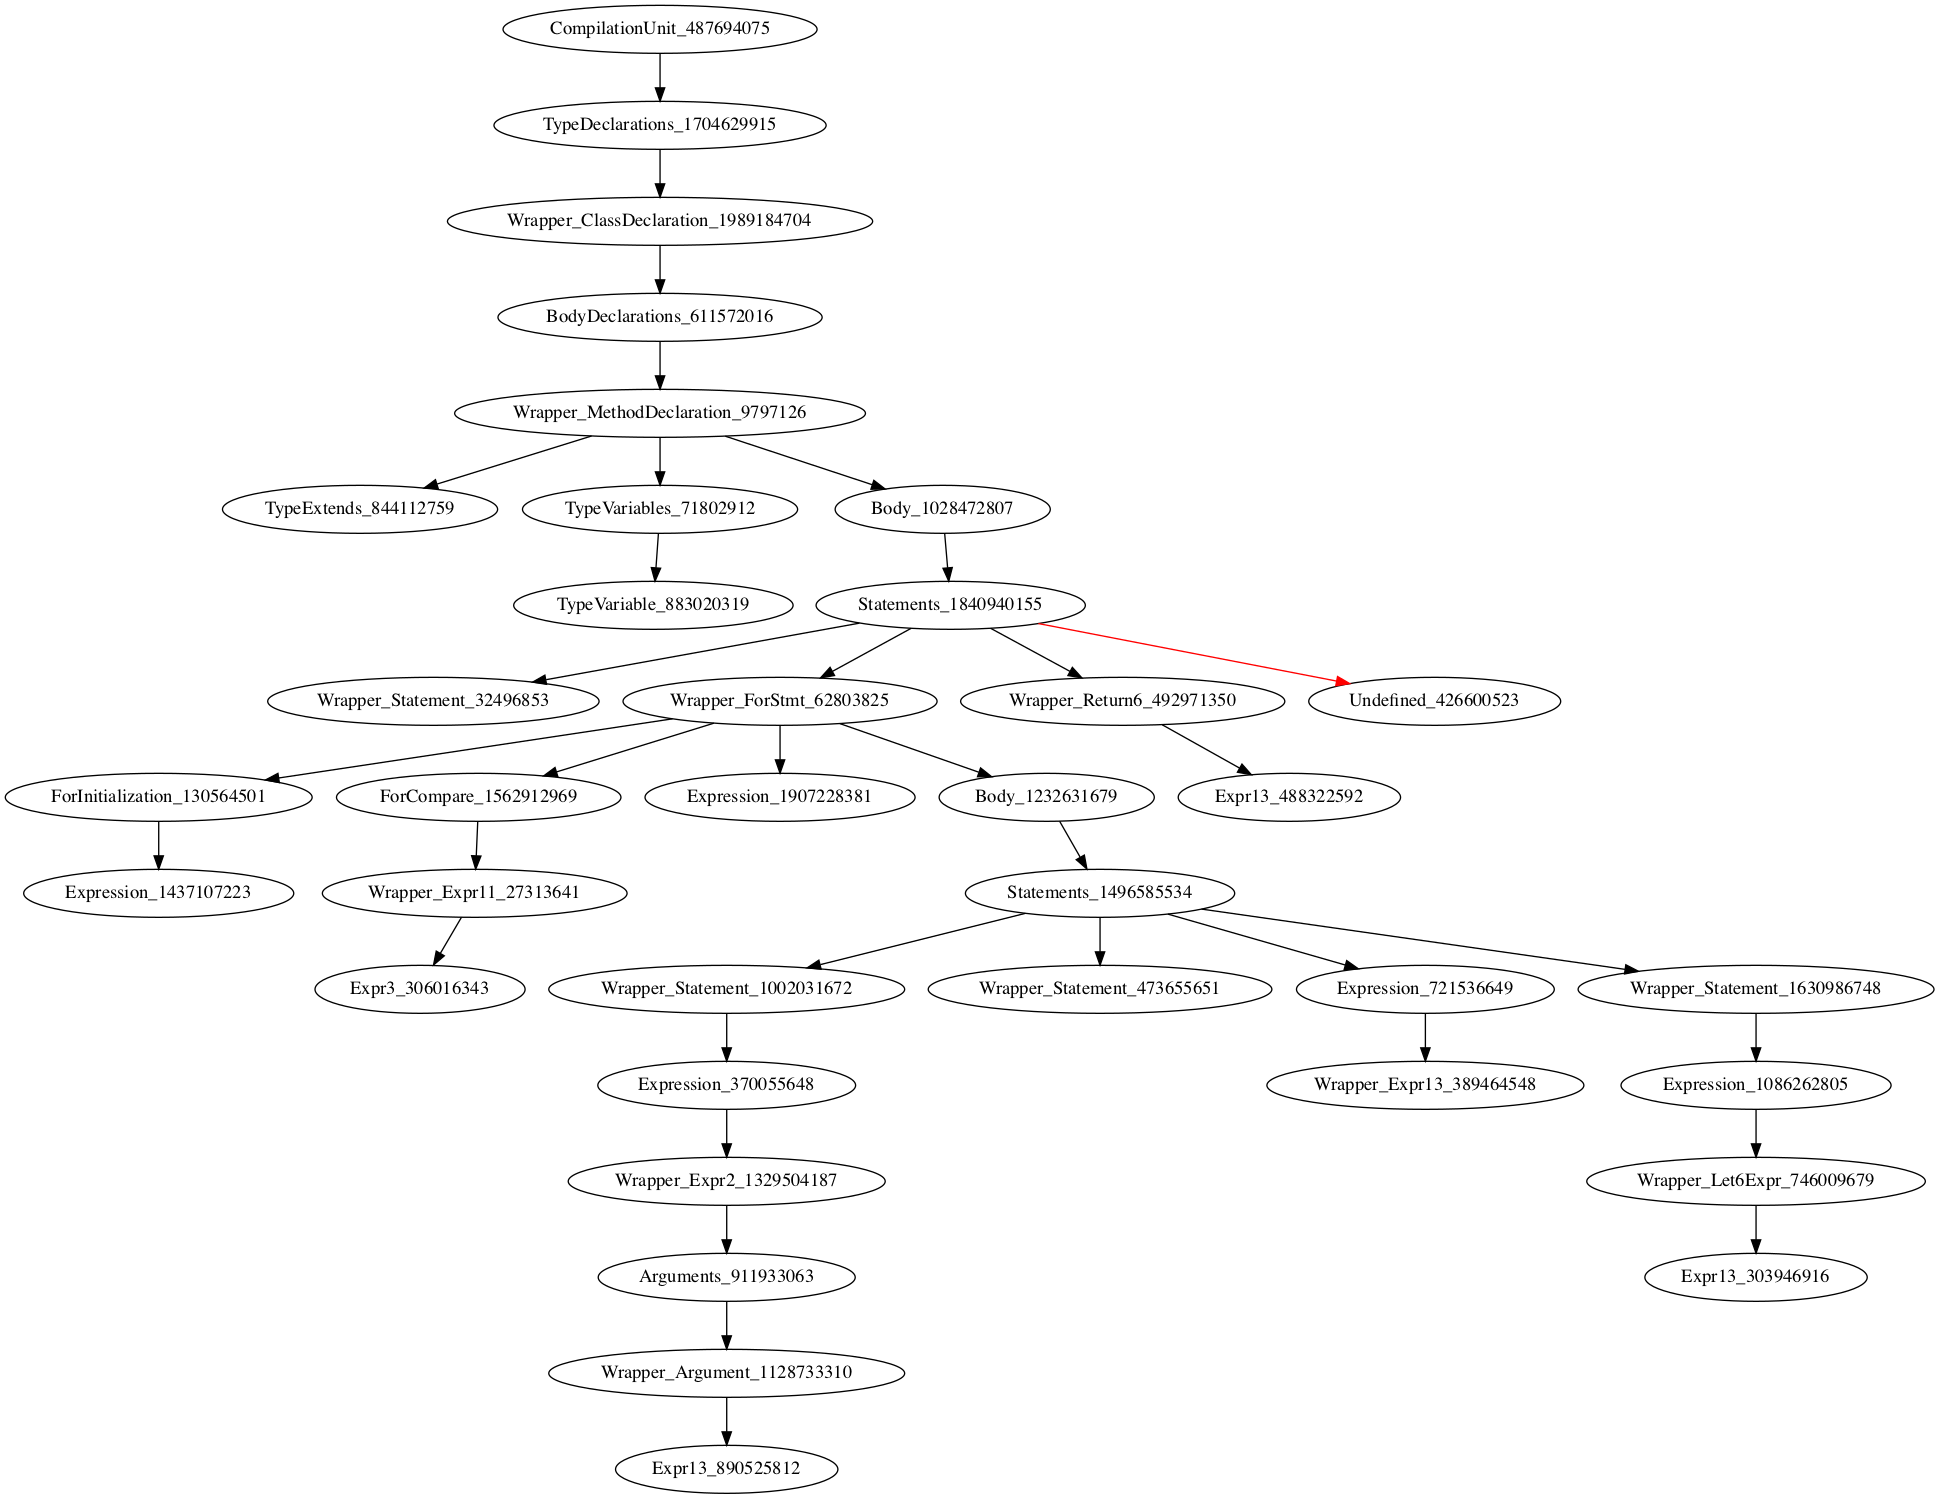
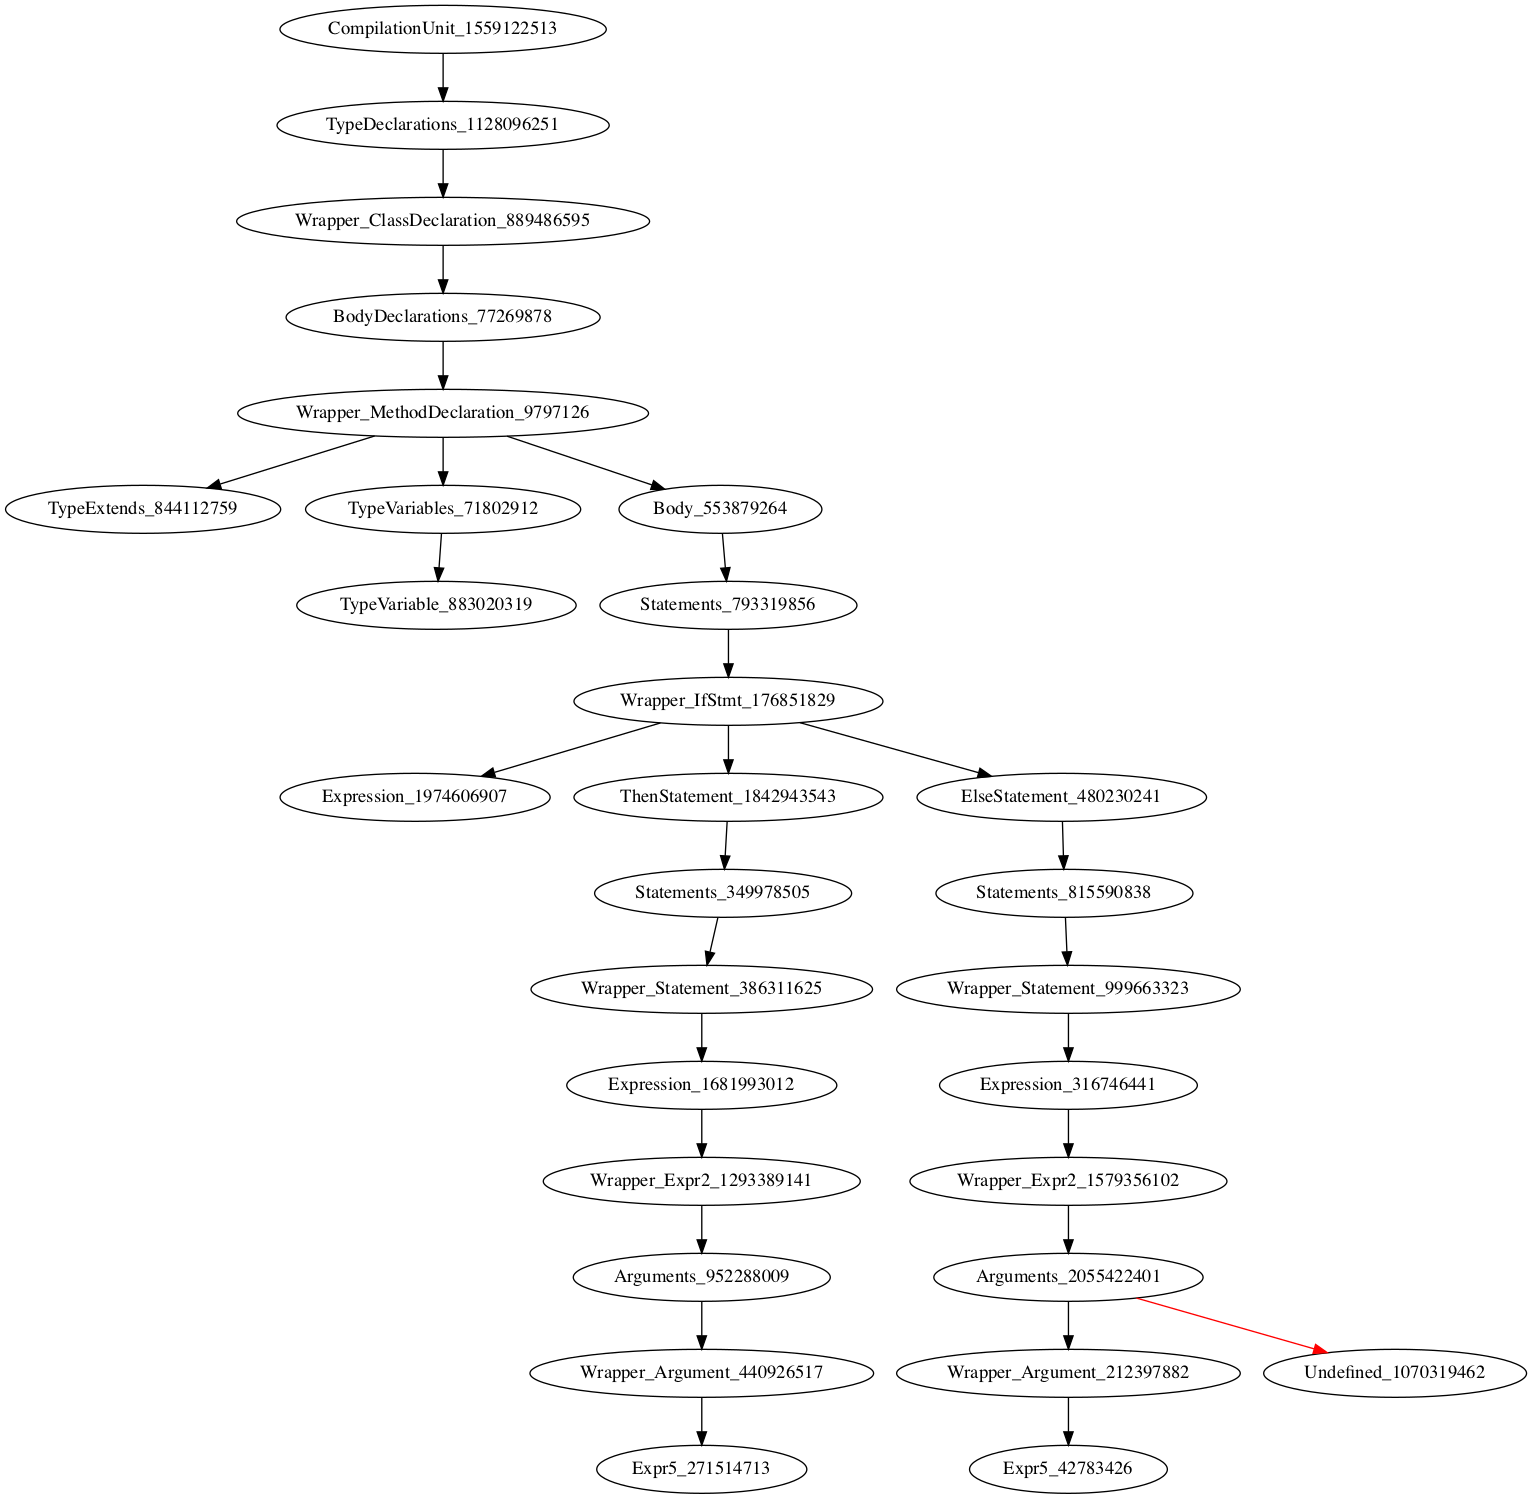
[fix] bug generation for if generation inside method declaration

diff --git a/voice2code/src/main/java/cn/edu/lyun/kexin/text2code/Text2CompilationUnit.java b/voice2code/src/main/java/cn/edu/lyun/kexin/text2code/Text2CompilationUnit.java
@@ -114,7 +114,8 @@ public class Text2CompilationUnit {
 				HoleNode holeNodeChild = new HoleNode(HoleType.Undefined, true);
 				currentHole.addChild(holeNodeChild);
 
-			} else if (parentHoleType.equals(HoleType.ElseStatement)) {
+			} else if (parentHoleType.equals(HoleType.ElseStatement) || (parentHole.getHoleTypeOfOptionsIfOnlyOne() != null
+					&& parentHole.getHoleTypeOfOptionsIfOnlyOne().equals(HoleType.IfStmt))) {
 				// default else case
 				BlockStmt blockStmt = new BlockStmt();
 				IfStmt ifStmt = (IfStmt) parent.getLeft();
@@ -418,7 +419,7 @@ public class Text2CompilationUnit {
 				holeNode = new HoleNode(HoleType.Expression, true);
 				currentHole.addChild(holeNode);
 			} else if (parentHoleType.equals(HoleType.MethodDeclaration)) {
-				MethodDeclaration mNode = (MethodDeclaration) parentAndIndex.getFirst();
+				MethodDeclaration mNode = (MethodDeclaration) parent.getLeft();
 				Optional<BlockStmt> optionalBody = mNode.getBody();
 				currentHole.setIsHole(false);
 				currentHole.setHoleType(HoleType.Body);
@@ -640,22 +641,39 @@ public class Text2CompilationUnit {
 					blockStmt.setStatements(statements);
 					whileStmt.setBody(blockStmt);
 
-					currentHole.setHoleType(HoleType.Body);
-					currentHole.setIsHole(false);
+					currentHole.set(HoleType.Body, false);
 
-					HoleNode anotherCurrentHole = new HoleNode();
-					anotherCurrentHole.setHoleType(HoleType.Statements);
-					anotherCurrentHole.setIsHole(false);
+					HoleNode anotherCurrentHole = new HoleNode(HoleType.Statements, false);
 					currentHole.addChild(anotherCurrentHole);
 
 					HoleNode childNode = new HoleNode(HoleType.Wrapper, false);
 					childNode.setHoleTypeOptionsOfOnlyOne(HoleType.IfStmt);
 					anotherCurrentHole.addChild(childNode);
 
-					HoleNode newHole = new HoleNode(HoleType.Expression, true);
-					childNode.addChild(newHole);
+					childNode.addChild(new HoleNode());
 				} else {
 					// TODO
+				}
+			} else if (parentNodeClassStr != null && parentNodeClassStr.equals("MethodDeclaration")) {
+				MethodDeclaration mNode = (MethodDeclaration) parent.getLeft();
+				Optional<BlockStmt> optionalBody = mNode.getBody();
+				currentHole.setIsHole(false);
+				currentHole.setHoleType(HoleType.Body);
+				HoleNode anotherCurrentHole = new HoleNode();
+				currentHole.addChild(anotherCurrentHole);
+				BlockStmt blockStmt = optionalBody.get();
+				NodeList<Statement> statements = blockStmt.getStatements();
+				if (statements.size() == 0) {
+					statements.add((Statement) node);
+
+					anotherCurrentHole.set(HoleType.Statements, false);
+
+					HoleNode childNode = new HoleNode(HoleType.Wrapper, false);
+					childNode.setHoleTypeOptionsOfOnlyOne(HoleType.IfStmt);
+					anotherCurrentHole.addChild(childNode);
+
+					HoleNode newHole = new HoleNode();
+					childNode.addChild(newHole);
 				}
 			}
 			break;
@@ -2886,6 +2904,8 @@ public class Text2CompilationUnit {
 			HoleNode holeNodeChildChild = new HoleNode(HoleType.Undefined, true);
 			stmtsHole.addChild(holeNodeChildChild);
 		} else if (thenStmtStr.equals("BlockStmt")) {
+			// Jump out of current if statement.
+
 		}
 	}
 

diff --git a/voice2code/src/test/java/cn/edu/lyun/kexin/test/text2code/RunTest.java b/voice2code/src/test/java/cn/edu/lyun/kexin/test/text2code/RunTest.java
@@ -10,7 +10,7 @@ public class RunTest {
 	public static void main(String[] args) throws IOException {
 		String dir = System.getProperty("user.dir");
 		Text2CompilationUnit text2CompilationUnit = new Text2CompilationUnit();
-		String filePath = dir + "/voice2code/src/test/java/cn/edu/lyun/kexin/test/text2code/testcases/ForLoop.voiceJava";
+		String filePath = dir + "/voice2code/src/test/java/cn/edu/lyun/kexin/test/text2code/testcases/If.voiceJava";
 		BufferedReader br = new BufferedReader(new FileReader(filePath));
 		for (String line; (line = br.readLine()) != null;) {
 			text2CompilationUnit.generate(line);

diff --git a/voice2code/src/main/java/cn/edu/lyun/kexin/text2code/astskeleton/HoleAST.java b/voice2code/src/main/java/cn/edu/lyun/kexin/text2code/astskeleton/HoleAST.java
@@ -165,7 +165,7 @@ public class HoleAST {
 	public boolean hashOnlyOneChild(HoleNode holeNode) {
 		Set<HoleType> set = new HashSet<HoleType>(Arrays.asList(HoleType.ImportDeclaration, HoleType.TypeDeclaration,
 				HoleType.Expression, HoleType.TypeVariable, HoleType.Body, HoleType.Statement, HoleType.VariableInitializer,
-				HoleType.VariableDeclarator, HoleType.Expr1, HoleType.Expr2));
+				HoleType.VariableDeclarator, HoleType.Expr1, HoleType.Expr2, HoleType.ThenStatement));
 		return holeNode.getNonUndefinedChildListSize() == 1 && set.contains(holeNode.getHoleType());
 	}
 

diff --git a/Test.java b/Test.java
@@ -1,13 +1,10 @@
-public class ForTest {
+public class IfTest {
 
-    public void main(String[] args) {
-        int[] ns;
-        for (int i = 0; i < ns.length; i++) {
-            System.out.println(ns[i]);
-            int nsi;
-            ns[i];
-            nsi = ns[i];
+    public static void main(string[] args) {
+        if (n > 90) {
+            System.out.prtinln("excellent");
+        } else {
+            System.out.println("bad");
         }
-        return ns[i];
     }
 }
